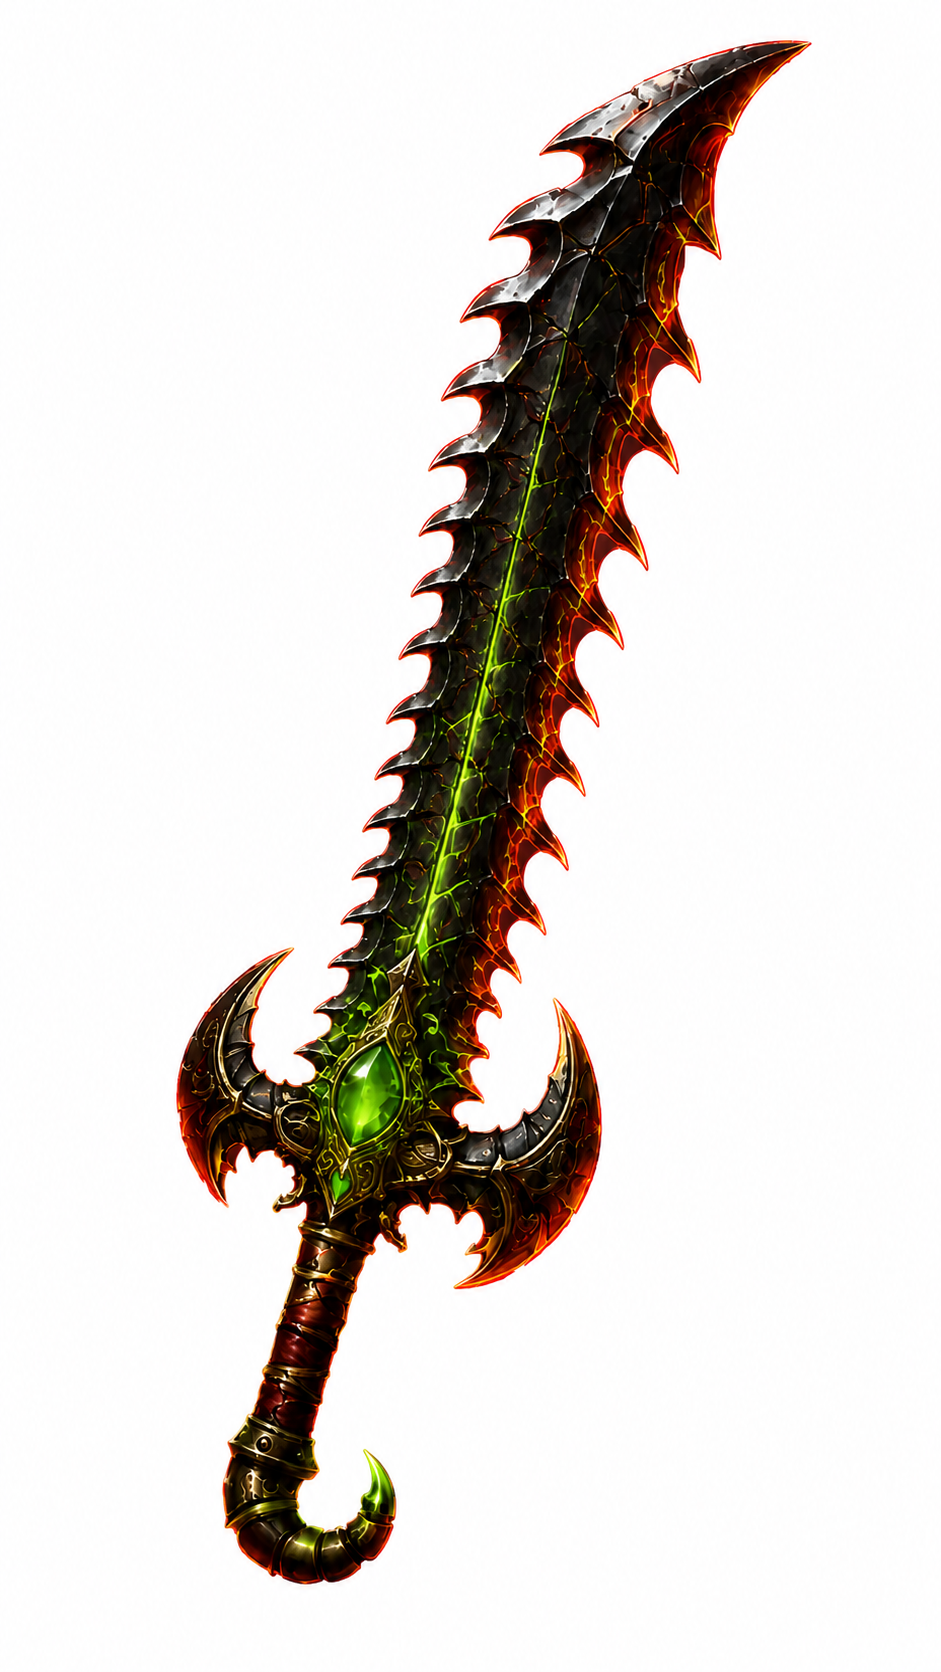
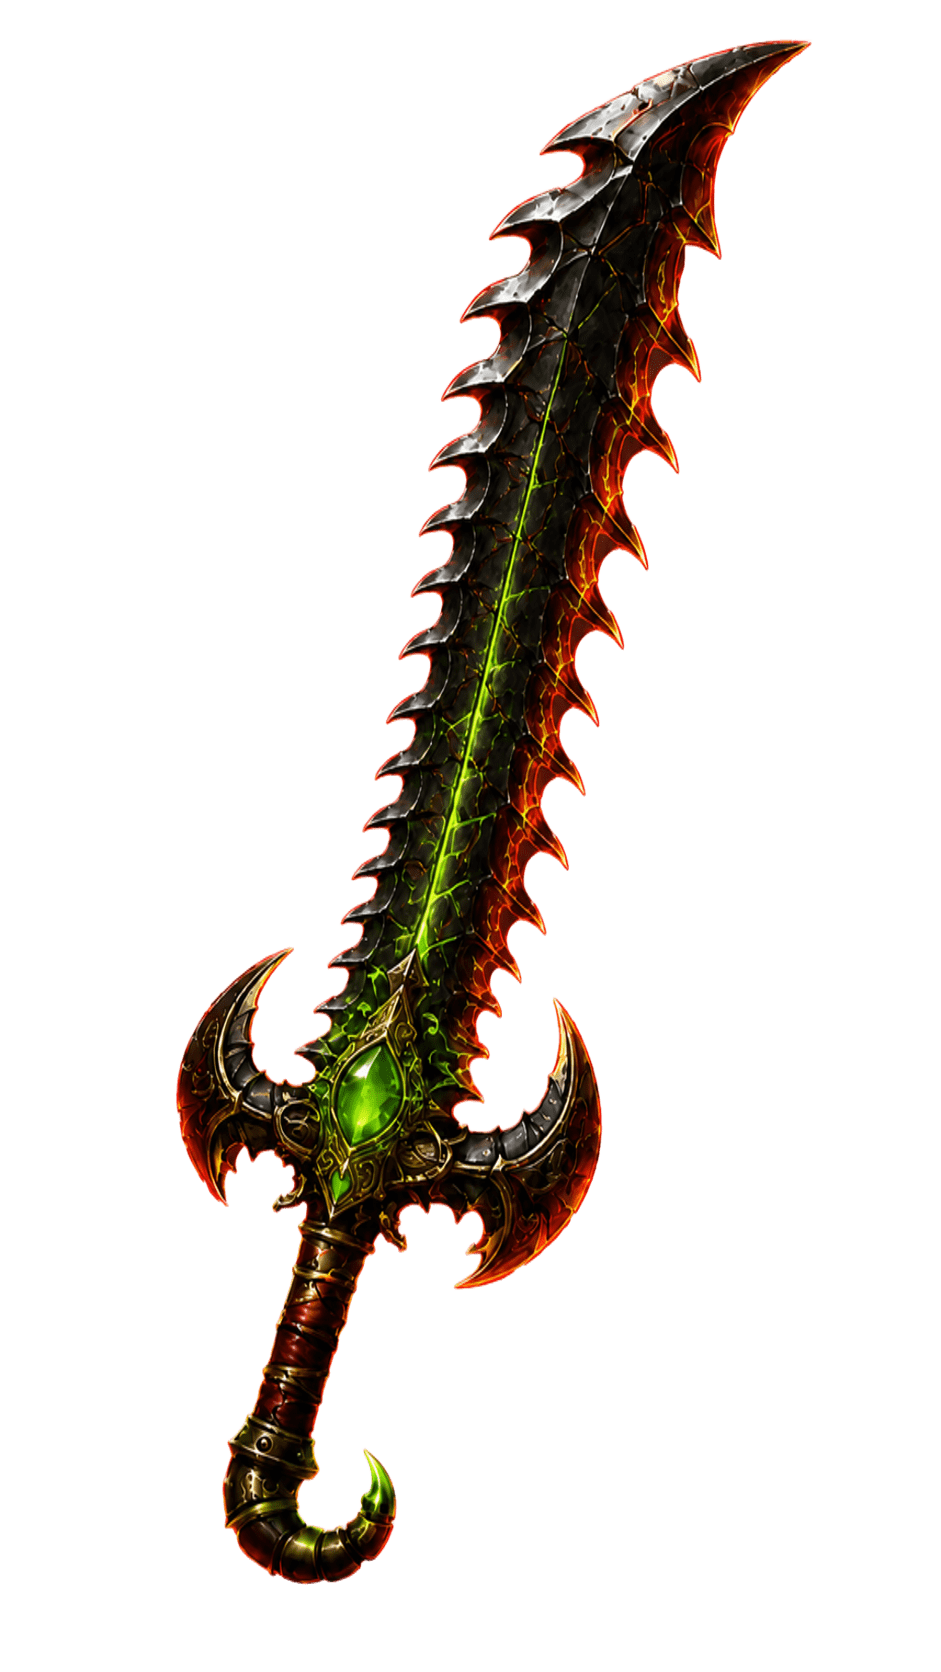
fix: weapon detail

diff --git a/weapon.html b/weapon.html
@@ -51,6 +51,90 @@
       return `<pre><code>${lines.join('\n')}</code></pre>`;
     }
 
+    function formatWeaponStatValue(value) {
+      if (value === null || value === undefined || value === '') {
+        return '-';
+      }
+
+      return String(value);
+    }
+
+    function parseWeaponStatNumber(value) {
+      const text = String(value || '').trim();
+
+      if (!text || text === '-') {
+        return null;
+      }
+
+      const match = text.match(/^([+-]?)(\d+(?:[.,]\d+)?)(.*)$/);
+      if (!match) {
+        return null;
+      }
+
+      const numeric = Number(match[2].replace(',', '.'));
+      if (!Number.isFinite(numeric)) {
+        return null;
+      }
+
+      return {
+        numeric,
+        suffix: match[3].trim()
+      };
+    }
+
+    function formatWeaponStatDelta(baseValue, selectedValue) {
+      const base = parseWeaponStatNumber(baseValue);
+      const selected = parseWeaponStatNumber(selectedValue);
+
+      if (!base || !selected || base.suffix !== selected.suffix) {
+        return '';
+      }
+
+      const delta = selected.numeric - base.numeric;
+      if (!delta) {
+        return 'sem ajuste';
+      }
+
+      const deltaText = Number.isInteger(delta)
+        ? String(delta)
+        : String(Number(delta.toFixed(2)));
+
+      return `${delta > 0 ? '+' : ''}${deltaText}${selected.suffix}`;
+    }
+
+    function renderWeaponAttributeComparison(type, variant) {
+      if (!type.statTable || !type.statTable.columns || type.statTable.columns.length === 0) {
+        return '';
+      }
+
+      const baseVariant = type.variantByKey['Incomum:I'] || type.variants[0];
+      const rows = type.statTable.columns.map(column => {
+        const baseValue = baseVariant && baseVariant.stats ? baseVariant.stats[column] : '-';
+        const selectedValue = variant.stats ? variant.stats[column] : '-';
+        const baseText = formatWeaponStatValue(baseValue);
+        const selectedText = formatWeaponStatValue(selectedValue);
+        const deltaText = formatWeaponStatDelta(baseValue, selectedValue);
+        const stateClass = deltaText && deltaText !== 'sem ajuste'
+          ? (deltaText.startsWith('+') ? 'is-upgrade' : 'is-downgrade')
+          : '';
+
+        return `
+          <div class="detail-stat-card ${stateClass}">
+            <span>${column}</span>
+            <strong>${selectedText}</strong>
+            <small>Base ${baseText}${deltaText ? ` | ${deltaText}` : ''}</small>
+          </div>
+        `;
+      }).join('');
+
+      return `
+        <div class="detail-section detail-section-stats">
+          <h3>Atributos</h3>
+          <div class="detail-stat-grid">${rows}</div>
+        </div>
+      `;
+    }
+
     function renderAscensions(family) {
       if (!family.ascensions || family.ascensions.length === 0) {
         return `
@@ -166,6 +250,7 @@
       const family = selection.family;
       const type = selection.type;
       const variant = selection.variant;
+      const baseVariant = type.variantByKey['Incomum:I'] || type.variants[0];
       const recipe = type.recipe || family.recipe;
       const ascensions = type.ascensions || family.ascensions;
       const visuals = type.visuals || family.visuals;
@@ -190,12 +275,12 @@
       }).join('');
 
       title.textContent = `${variant.name}`;
-      actions.textContent = `${family.familyName} · ${type.weaponType} · ${variant.rarity} ${variant.tier}`;
+      actions.textContent = `${family.familyName} - ${type.weaponType} - ${variant.rarity} ${variant.tier}`;
       document.title = `${variant.name} - Arkhai Wiki`;
 
       content.innerHTML = `
         <div class="status-line">
-          ⚔ Dados carregados de <strong>assets/weapons-data.js</strong>, sincronizado com
+          Dados carregados de <strong>assets/weapons-data.js</strong>, sincronizado com
           <strong>${family.sourceDocument}</strong>.
         </div>
 
@@ -231,7 +316,6 @@
                 <p><strong>Efeito:</strong> ${family.markEffect}</p>
               </div>
             </section>
-            ${renderWeaponAttributePreview(family, type, variant)}
 
             <h2 class="section-title">Visao Geral</h2>
             <p>${family.summary}</p>
@@ -243,7 +327,6 @@
             <p><strong>Materiais de familia:</strong> ${family.materials.join(', ')}</p>
 
             ${renderRarityMatrix(type, variant)}
-            ${renderWeaponAttributeTable(family, type, variant)}
 
             <h2 class="section-title">Receita Inicial</h2>
             ${renderCodeBlock(recipe)}
@@ -269,6 +352,9 @@
             <div class="detail-row"><span class="detail-label">Regiao</span><span class="detail-value">${family.region}</span></div>
             <div class="detail-row"><span class="detail-label">Marca</span><span class="detail-value">${family.markName}</span></div>
             <div class="detail-row"><span class="detail-label">Efeito</span><span class="detail-value">${family.markEffect}</span></div>
+            <div class="detail-row"><span class="detail-label">Base</span><span class="detail-value">${baseVariant.name}</span></div>
+            <div class="detail-row"><span class="detail-label">Selecionada</span><span class="detail-value">${variant.name}</span></div>
+            ${renderWeaponAttributeComparison(type, variant)}
             <div class="detail-section">
               <h3>Resumo</h3>
               <p>${family.theme}</p>

diff --git a/assets/wiki.css b/assets/wiki.css
@@ -60,15 +60,15 @@ h1, .article h1 { font-family:Georgia,serif; font-size:35px; font-weight:500; ma
 .progression-table tr.is-active td { background:#fff2d8 !important; }
 .missing-item-icon { width:42px; height:42px; display:flex; align-items:center; justify-content:center; margin:auto; border:1px dashed #9aa6b2; background:#18202b; color:#ff6b6b; font-family:Consolas, monospace; font-size:12px; font-weight:700; border-radius:6px; }
 .detail-icon .missing-item-icon { width:86px; height:86px; font-size:18px; }
-.detail-layout { display:grid; grid-template-columns:minmax(0,1fr) 540px; gap:24px; align-items:start; }
+.detail-layout { display:grid; grid-template-columns:minmax(0,1fr) 560px; gap:24px; align-items:start; }
 .detail-card {
   position:relative;
   overflow:hidden;
   color:#e7edf6;
   border:2px solid #7fc7ff;
   box-shadow:0 10px 32px rgba(0,0,0,.22);
-  padding:18px;
-  max-width:520px;
+  padding:18px 18px 20px;
+  max-width:560px;
   font-family:Consolas, monospace;
   background:
     radial-gradient(circle at 20% 25%, rgba(255,255,255,.18), transparent 12%),
@@ -91,6 +91,75 @@ h1, .article h1 { font-family:Georgia,serif; font-size:35px; font-weight:500; ma
 .detail-row { display:flex; justify-content:space-between; gap:16px; border-bottom:1px solid rgba(127,199,255,.35); padding:8px 0; }
 .detail-label { color:#b6c7d8; }
 .detail-value { color:#fff; text-align:right; }
+.detail-section {
+  margin-top:14px;
+  padding-top:14px;
+  border-top:1px solid rgba(127,199,255,.25);
+}
+.detail-section h3 {
+  margin:0 0 10px;
+  color:#fff2d8;
+  font-size:14px;
+  text-transform:uppercase;
+  letter-spacing:.06em;
+}
+.detail-section p {
+  margin:0;
+  color:#eef7f1;
+  line-height:1.55;
+}
+.detail-section-stats {
+  margin-top:14px;
+}
+.detail-stat-grid {
+  display:grid;
+  grid-template-columns:repeat(2,minmax(0,1fr));
+  gap:10px;
+}
+.detail-stat-card {
+  padding:12px 12px 11px;
+  border:1px solid rgba(127,199,255,.22);
+  border-radius:10px;
+  background:rgba(8,14,20,.22);
+  box-shadow:inset 0 1px 0 rgba(255,255,255,.06);
+}
+.detail-stat-card span {
+  display:block;
+  color:#b6c7d8;
+  font-size:11px;
+  text-transform:uppercase;
+  letter-spacing:.06em;
+  margin-bottom:5px;
+  font-weight:700;
+}
+.detail-stat-card strong {
+  display:block;
+  color:#fff;
+  font-size:18px;
+  line-height:1.1;
+  font-weight:800;
+}
+.detail-stat-card small {
+  display:block;
+  margin-top:4px;
+  color:#cfe8d9;
+  font-size:12px;
+  line-height:1.35;
+}
+.detail-stat-card.is-upgrade {
+  border-color:rgba(104, 216, 151, .45);
+  background:rgba(9, 28, 19, .34);
+}
+.detail-stat-card.is-upgrade strong {
+  color:#d8fff1;
+}
+.detail-stat-card.is-downgrade {
+  border-color:rgba(255, 123, 123, .42);
+  background:rgba(34, 13, 15, .32);
+}
+.detail-stat-card.is-downgrade strong {
+  color:#ffe1e1;
+}
 .attribute-preview {
   margin-top:14px;
   padding:14px;
@@ -230,4 +299,4 @@ h1, .article h1 { font-family:Georgia,serif; font-size:35px; font-weight:500; ma
 .city-grid { display:grid; grid-template-columns:repeat(2,minmax(0,1fr)); gap:12px; } .city-card { border:1px solid var(--border); background:var(--surface-soft); border-radius:9px; padding:13px; } .city-card strong { display:block; color:#263241; margin-bottom:4px; } .city-card span { color:var(--muted); font-size:13px; }
 .category-grid { display:grid; grid-template-columns:repeat(3,minmax(190px,1fr)); gap:8px 28px; margin:14px 0 18px; max-width:920px; } .category-link { display:grid; grid-template-columns:34px 1fr; align-items:center; min-height:38px; color:var(--link); } .category-icon { width:30px; height:30px; border-radius:7px; font-size:19px; box-shadow:inset 0 1px 0 rgba(255,255,255,.75); } .category-note { color:var(--muted); margin-top:0; max-width:1100px; }
 @media(max-width:1050px){.notice-grid{grid-template-columns:1fr}.article-body{grid-template-columns:1fr}.infobox{max-width:420px}.category-grid{grid-template-columns:repeat(2,minmax(160px,1fr));}.detail-layout{grid-template-columns:1fr}.detail-card{max-width:none}}
-@media(max-width:760px){.wiki-shell{grid-template-columns:1fr}.sidebar{position:static;height:auto}.topbar{position:static;height:auto;flex-direction:column;align-items:stretch;gap:10px;padding:12px}.tabs{height:auto;flex-wrap:wrap}.tab{padding:8px 10px;border:1px solid var(--border)}.search input{width:100%}.content{padding:16px}.city-grid,.category-grid,.item-line-grid,.variant-switcher,.attribute-stat-grid{grid-template-columns:1fr}.item-spotlight{grid-template-columns:1fr}.item-line-card{grid-template-columns:1fr}}
+@media(max-width:760px){.wiki-shell{grid-template-columns:1fr}.sidebar{position:static;height:auto}.topbar{position:static;height:auto;flex-direction:column;align-items:stretch;gap:10px;padding:12px}.tabs{height:auto;flex-wrap:wrap}.tab{padding:8px 10px;border:1px solid var(--border)}.search input{width:100%}.content{padding:16px}.city-grid,.category-grid,.item-line-grid,.variant-switcher,.attribute-stat-grid,.detail-stat-grid{grid-template-columns:1fr}.item-spotlight{grid-template-columns:1fr}.item-line-card{grid-template-columns:1fr}}
